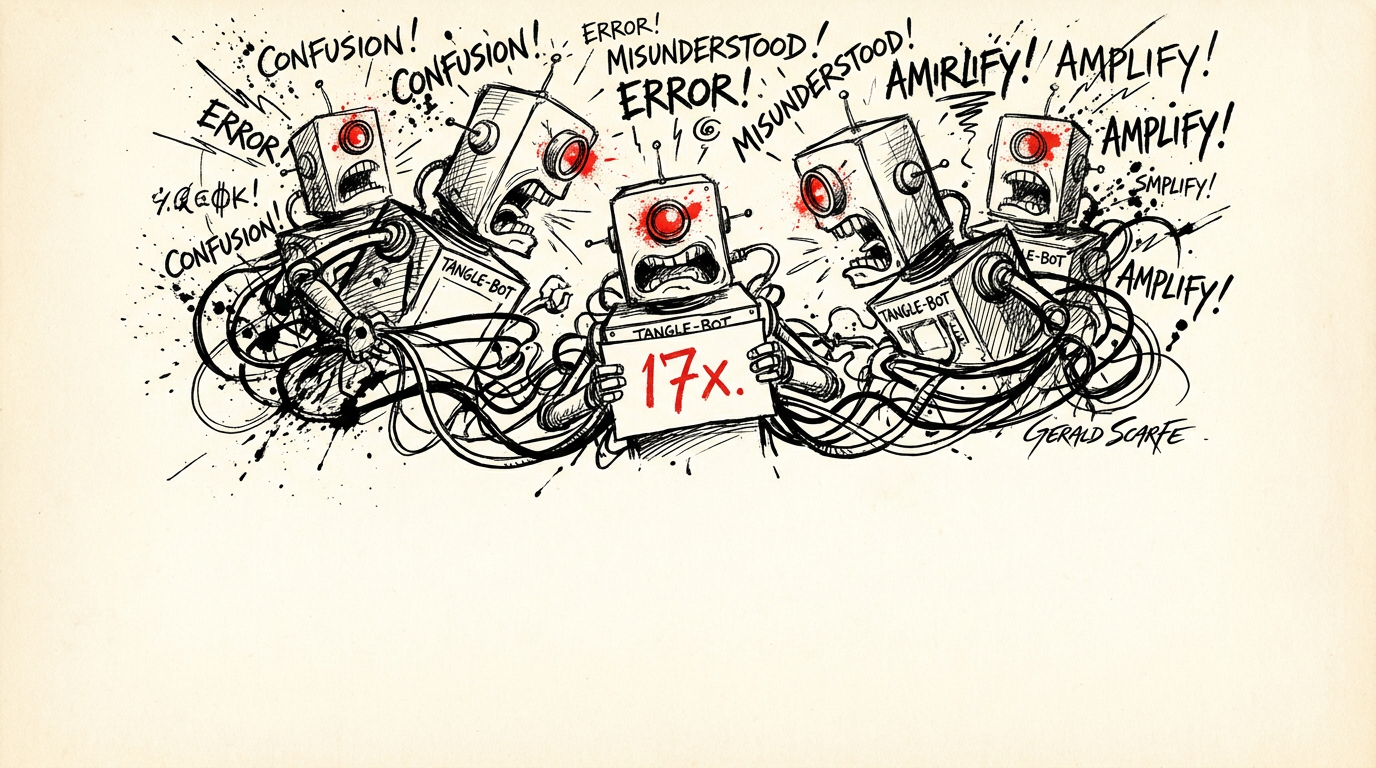
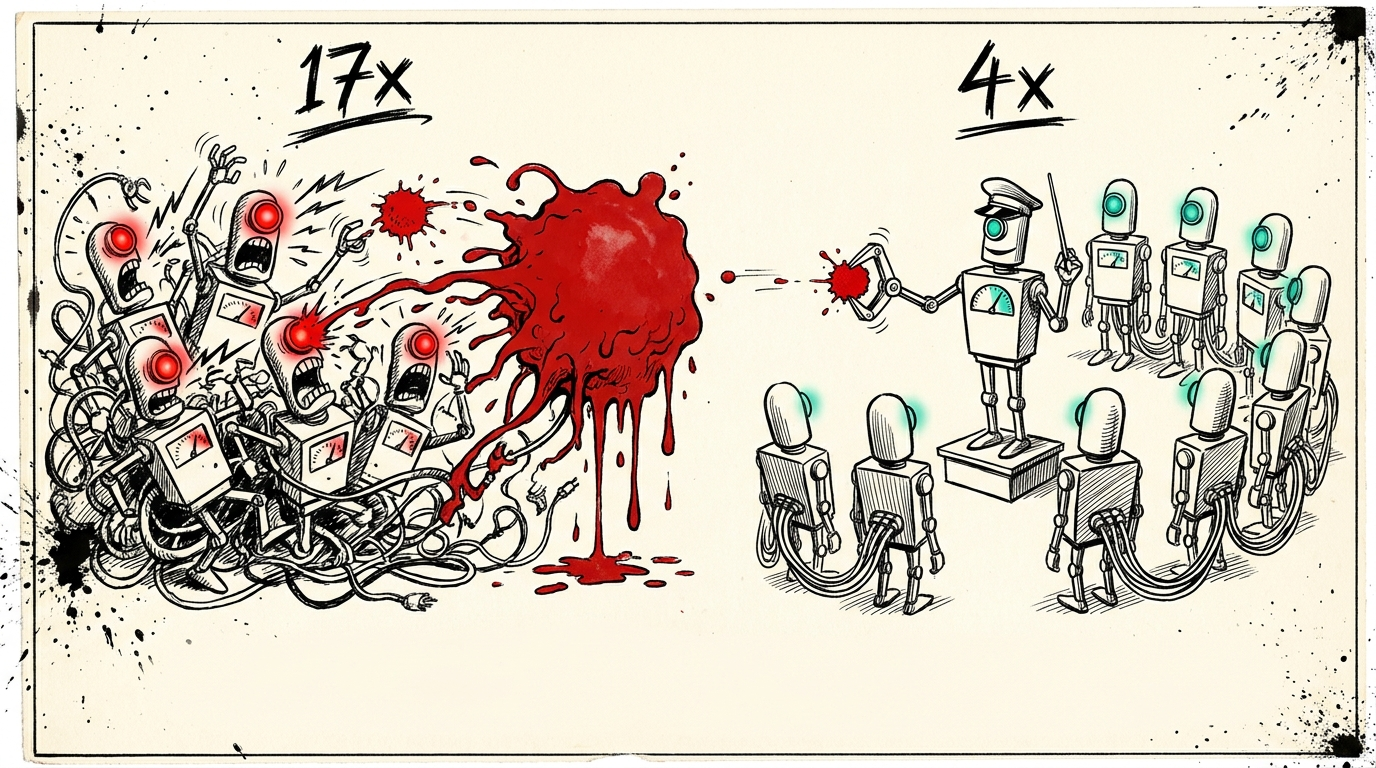
Redraw multiagent-amplify in Scarfe style: topology contrast (17x uncoordinated vs 4x orchestrated)
Old image showed the wrong framing (one agent vs others) and a garbled
'amirlify' label. Redrawn via render_missing_figures.py with the locked R1
editorial style + mascots, conveying uncoordinated-mob-vs-orchestrator and
clean 17x/4x labels. Removes the resolved ch08 redraw TODO.

diff --git a/render_missing_figures.py b/render_missing_figures.py
@@ -38,6 +38,21 @@ DIAGRAM = (
     "Use ONLY the labels specified below; invent no extra text and no jargon. "
 )
 
+# --- locked R1 style (verbatim from render_full_set.py): Gerald Scarfe editorial cartoon + mascots ---
+EDITORIAL = (
+    "Savage, biting editorial caricature for a serious business/technology book, in the spirit of GERALD SCARFE and Ralph Steadman: "
+    "dangerous slashing pen-and-ink linework, whiplash strokes, splattered and dripping ink, grotesque expressive exaggeration, satirical venom and menace under the wit. "
+    "Political-caricature ferocity, NOT cute, NOT poised, never juvenile underground-comix crosshatch — it draws blood but stays intelligent and grown-up. "
+    "Black ink with flicked spatter on warm off-white paper, ONE spot-colour accent used like a wound. Confident negative space. "
+    "CRITICAL TEXT RULE: the ONLY text anywhere in the image is the single hand-scrawled PUNCH-WORD named below (plus any short labels explicitly listed). "
+    "Render NO caption, NO sentence, NO paragraph, NO explanatory line, NO gibberish lettering of any kind. Leave the lower portion as clean EMPTY off-white paper — a real human caption is added later. Empty space is correct; do not fill it with text. "
+)
+MASCOT_REF = (
+    "Two recurring robot CHARACTERS, drawn in the same Scarfe ink style. TANGLE-BOT: an anxious boxy vintage robot, single round head-lamp eye that glows red when stressed, "
+    "rectangular torso with a little dial, spindly limbs, perpetually snared in cables — the dumb/overwhelmed AI. CRISP-BOT: the SAME robot design but calm, upright, clean, "
+    "uncluttered, often teal-lit — the coherent AI. Keep their design consistent across the book. Draw ONLY the scene described below. "
+)
+
 JOBS = [
  ("agent-picks-engine-joins.png", "16:9", DIAGRAM +
   "Conveys visually (not as written text): 'the agent picks; the engine joins', with the SEMANTIC LAYER as the single hub that everything connects THROUGH. "
@@ -53,6 +68,13 @@ JOBS = [
   "A single straight horizontal dashed line runs across the whole figure in the gap between Loop 2 and Loop 3, labelled 'observed / observing'. "
   "Everything inside that line (the SEMANTIC LAYER, Loop 1, Loop 2) is the system being observed; everything outside it (Loop 3, Loop 4) is the system observing itself. "
   "Concentric, symmetric, restrained palette, lots of air, textbook-quality."),
+
+ ("multiagent-amplify.png", "16:9", EDITORIAL + MASCOT_REF +
+  "AGENTIC INTELLIGENCE — 'topology, not headcount'. A split editorial cartoon contrasting two multi-agent topologies handling the SAME small error (one small red ink-blot). "
+  "LEFT side, UNCOORDINATED: a chaotic mob of several TANGLE-BOTS with NO ONE in charge, all shouting over each other at once, cables crossed and tangled together; the small red error is flung from bot to bot and BALLOONS bigger at every hand-off until it is a huge dripping red blot engulfing the whole mob — a tiny mistake multiplied by an unsupervised swarm. "
+  "RIGHT side, ORCHESTRATED: the SAME small red error enters a calm, orderly arrangement of TANGLE-BOTS organised around ONE upright central CRISP-BOT conductor, who catches and clamps the error so it stays small and contained. "
+  "The point reads: left is bedlam with no conductor and the error explodes; right has a conductor and the error is contained. The error is the single red spot-colour accent. "
+  "PUNCH-LABELS: the ONLY text anywhere in the image is two short hand-scrawled labels — '17x' over the left uncoordinated mob and '4x' over the right orchestrated group. Absolutely NO other lettering: do NOT write the word 'amplify' or any other word, NO caption, NO gibberish. Leave clean empty off-white paper below for a human caption added later."),
 ]
 
 
